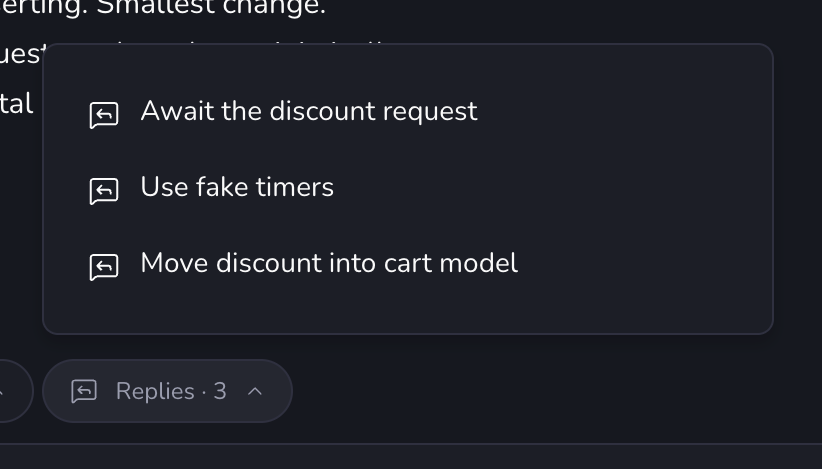
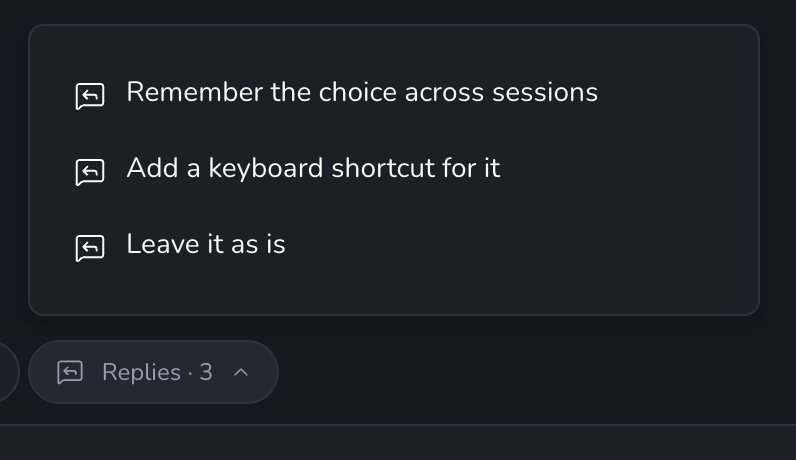
Use a generic screenshot and list it as the plugin's media

diff --git a/README.md b/README.md
@@ -4,7 +4,7 @@ A [Paseo](https://paseo.sh) plugin: after each agent turn, a **Replies** pill of
 likely send, written by Claude Haiku, and sends the one you pick. It works in every workspace.
 [`OVERVIEW.md`](OVERVIEW.md) describes what it does; this file covers setup.
 
-![The Replies pill's popover, offering three replies to an agent that asked which of three fixes to make](docs/replies.png)
+![The Replies pill's popover, offering three replies to an agent that asked whether to extend a dark mode toggle](docs/replies.png)
 
 ## Setup
 
